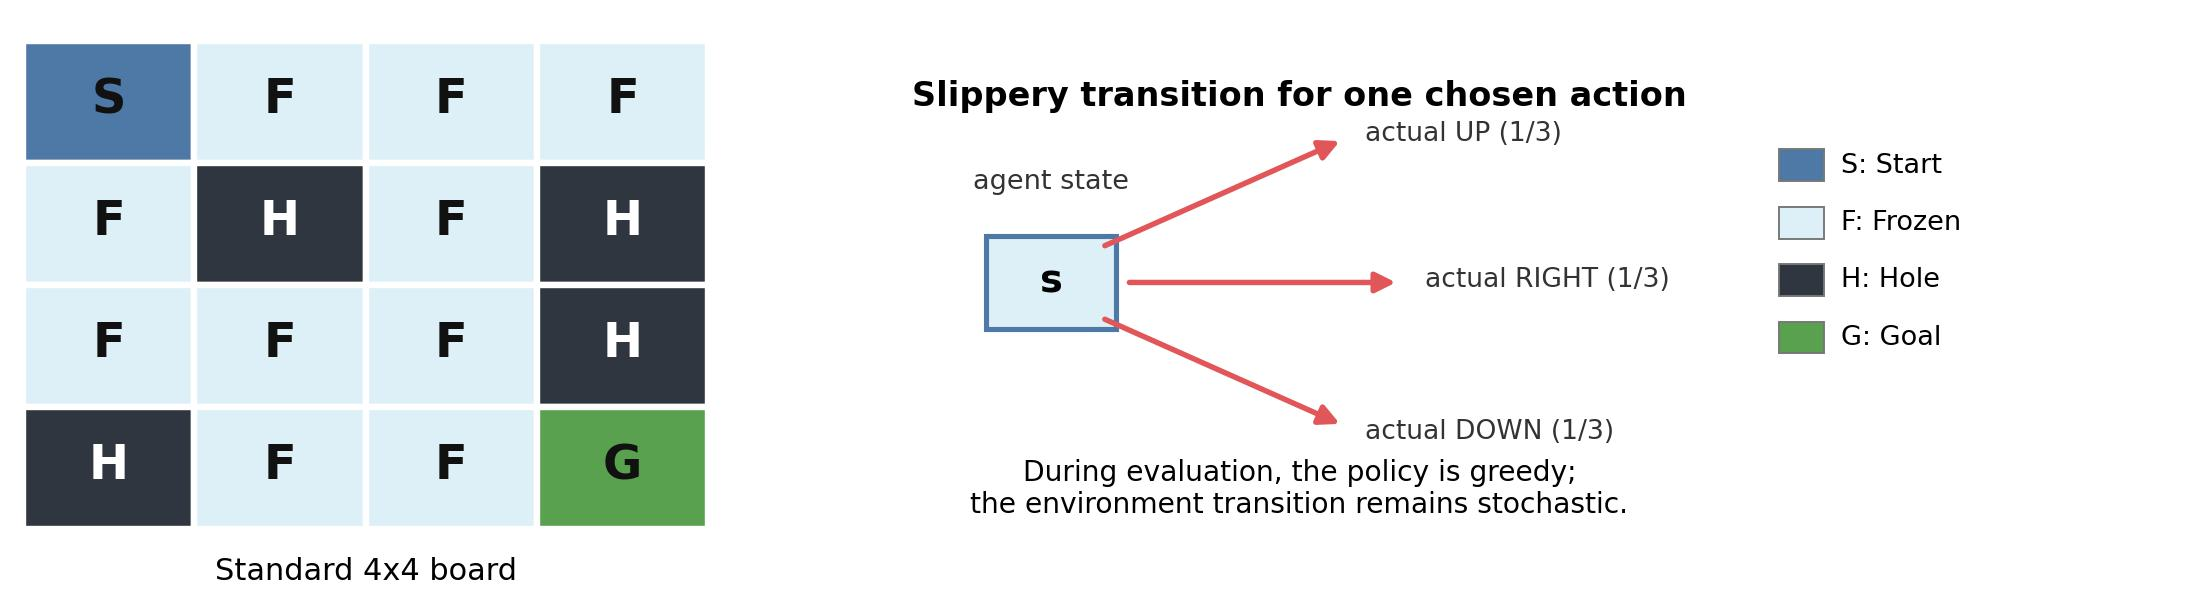
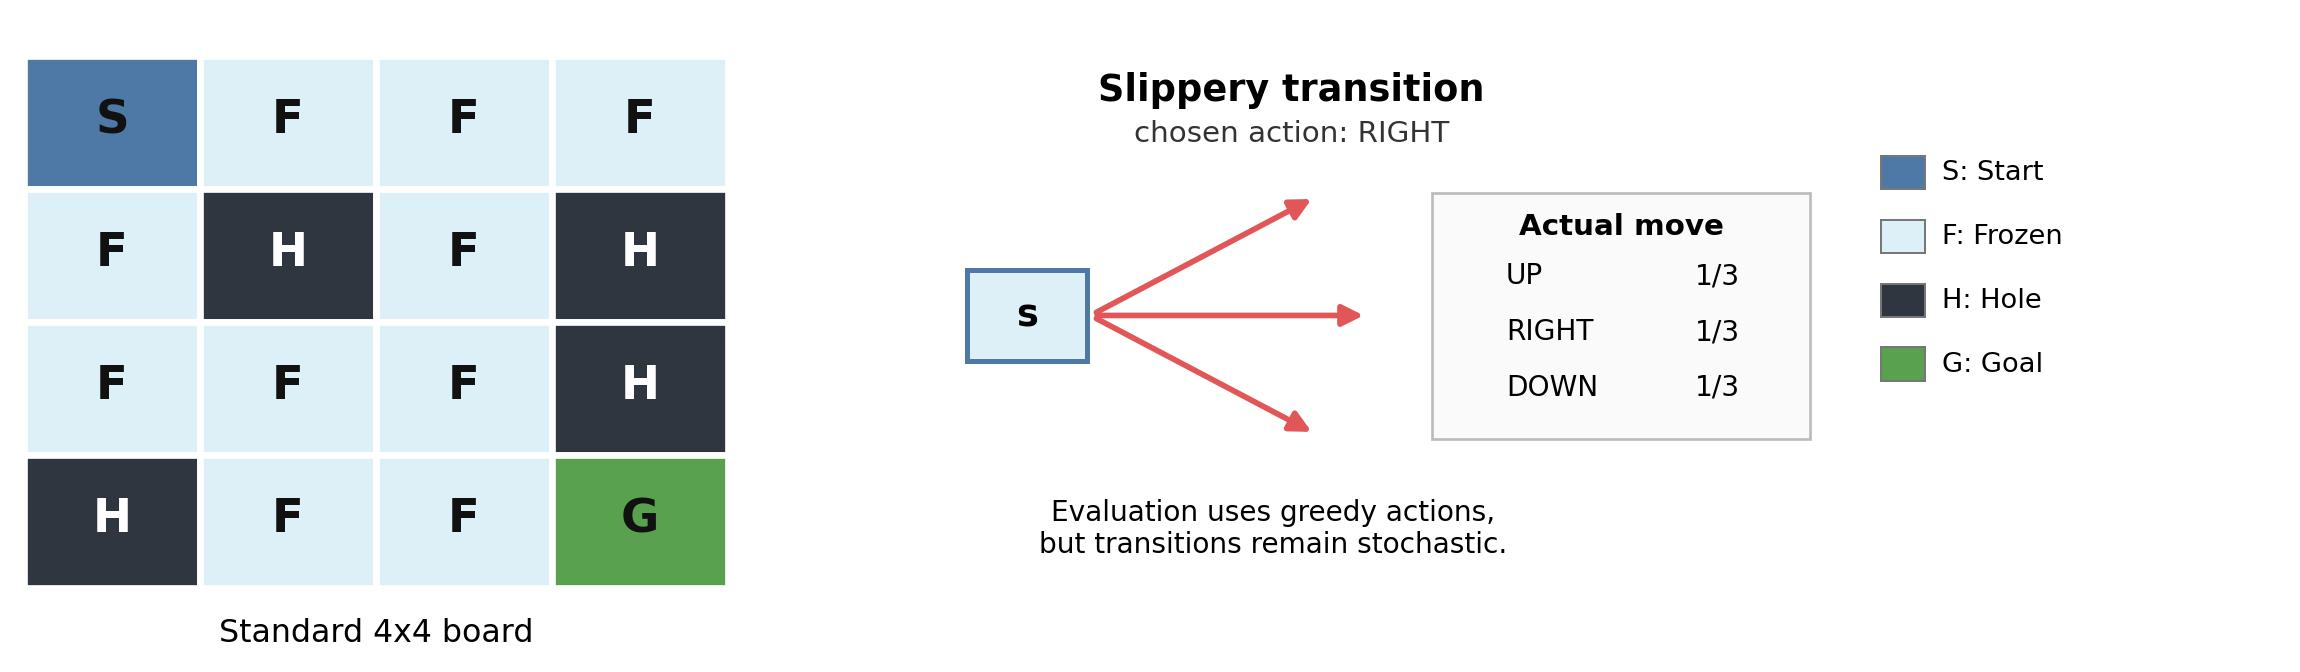
Use polished FrozenLake environment overview figure

diff --git a/report_overleaf_light/main.tex b/report_overleaf_light/main.tex
@@ -65,7 +65,7 @@ All reported experiments use \texttt{slippery=True}. In each step, the environme
 
 \begin{figure}[H]
     \centering
-    \includegraphics[width=0.88\linewidth]{figures_compact/frozenlake_environment_overview.jpg}
+    \includegraphics[width=0.88\linewidth]{figures_compact/frozenlake_environment_overview.png}
     \caption{FrozenLake environment overview. The agent starts at \texttt{S}, reaches \texttt{G}, avoids holes \texttt{H}, and evaluates greedy policies under stochastic slippery transitions.}
     \label{fig:envoverview}
 \end{figure}
